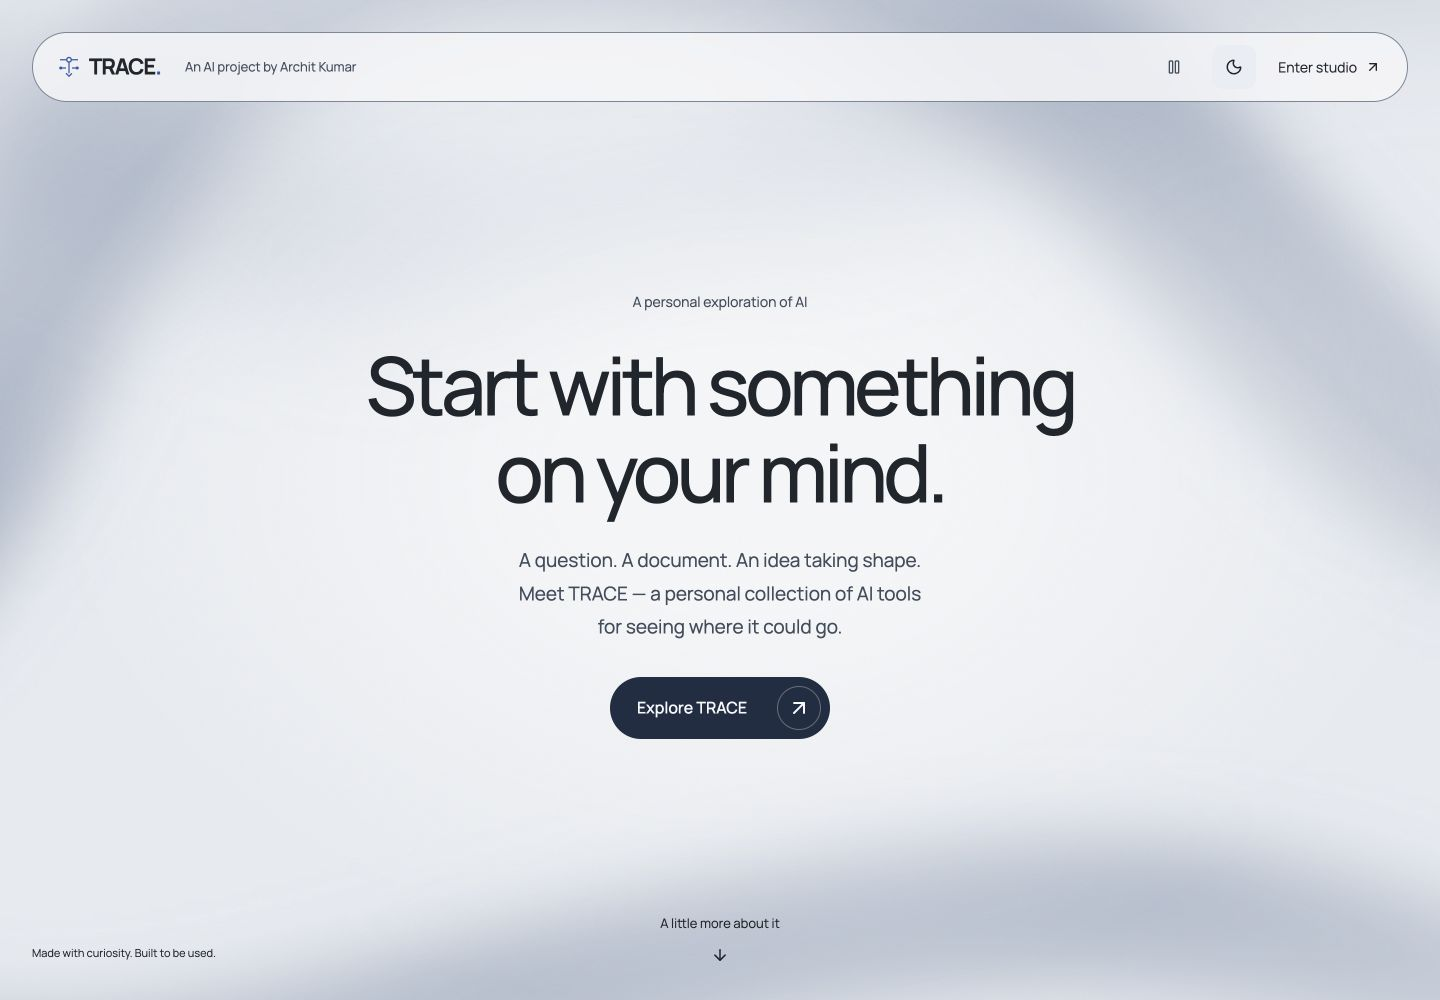
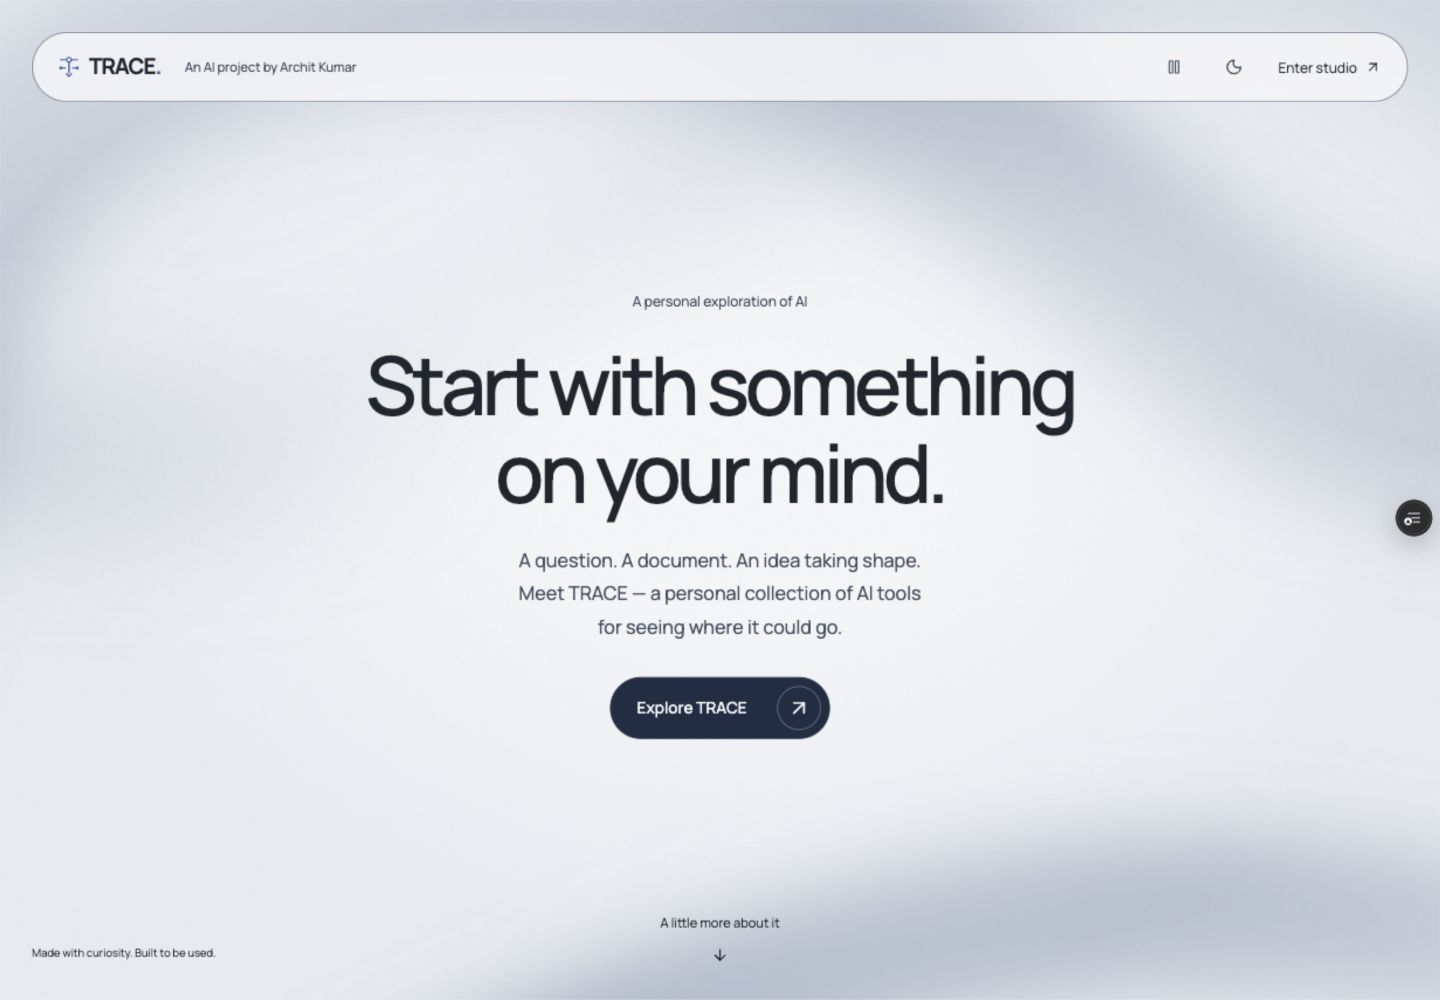
Record the continuous-background review preview

diff --git a/docs/quiet-studio.md b/docs/quiet-studio.md
@@ -4,7 +4,7 @@ Implementation branch: `codex/trace-quiet-studio`. Review base: `codex/trace-rea
 
 ## Review preview
 
-[Open the Vercel preview](https://trace-agentic-workspace-a03p1rjqk.vercel.app/). Deployment `dpl_H9ZeZq1giMm8qBf8c3gmtqNwVcH2` built successfully from frontend commit `cd8910a`. Production has not been promoted.
+[Open the Vercel preview](https://trace-agentic-workspace-ht8v1b9w0.vercel.app/). Deployment `dpl_HqWkhg12HFCVQLsNDTZG8EfEcRM4` built successfully from frontend commit `cd175f3`. Production has not been promoted.
 
 All five sample routes on the prior preview were checked, with the sample label and result visible and no Turnstile frame mounted. [Preview sample record](evaluation/studio-preview-samples.json). Live execution from preview origins is intentionally not claimed: the prior preview’s non-generating CORS preflight returned **400, Disallowed CORS origin**. [Preflight record](evaluation/studio-preview-cors.json). For live preview testing, add this exact hostname to the existing Turnstile widget and this exact HTTPS origin to `TRACE_ALLOWED_ORIGINS`; preserve the production origin and all verification controls. This is unnecessary for offline sample review. Promotion to the existing production hostname uses its existing allowlisting.
 
